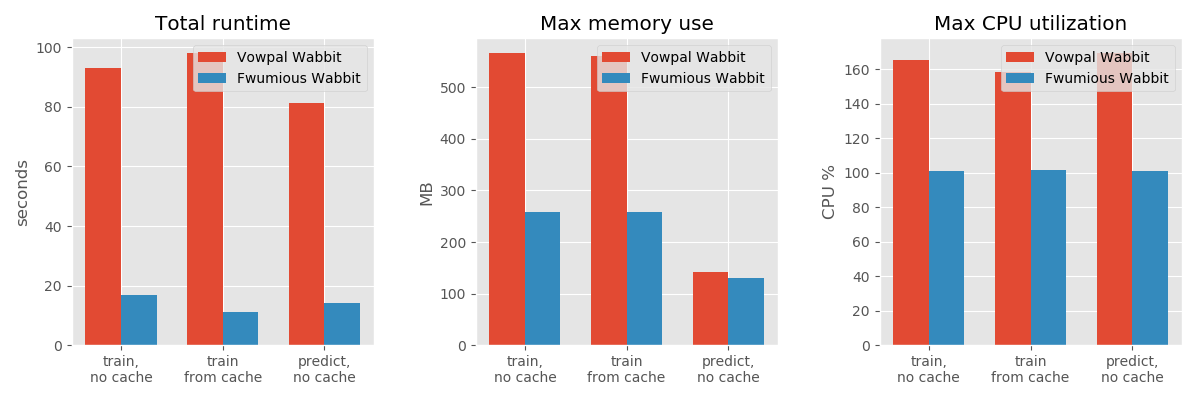
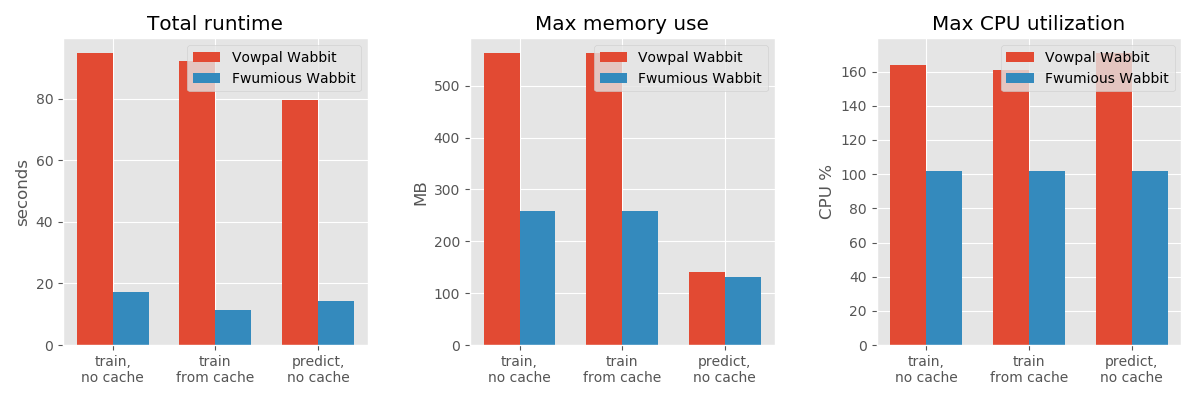
bumping version & benchmark info

diff --git a/src/version.rs b/src/version.rs
@@ -1,1 +1,1 @@
-pub static LATEST: &str = "0.7";
+pub static LATEST: &str = "0.8";

diff --git a/BENCHMARK.md b/BENCHMARK.md
@@ -14,12 +14,12 @@ here are the results for 3 runs for each scenario, taking mean values:
 ![benchmark results](benchmark_results.png)
 Scenario|Runtime (seconds)|Memory (MB)|CPU %
 ----|----:|----:|----:
-vw train, no cache|93.19 | 567 | 165.20
-fw train, no cache|16.90 | 258 | 100.97
-vw train, using cache|98.15 | 562 | 158.57
-fw train, using cache|11.08 | 258 | 101.73
-vw predict, no cache|81.27 | 141 | 169.47
-fw predict, no cache|14.14 | 130 | 100.97
+vw train, no cache|94.80 | 563 | 164.00
+fw train, no cache|17.29 | 258 | 102.07
+vw train, using cache|92.17 | 563 | 161.03
+fw train, using cache|11.50 | 258 | 102.10
+vw predict, no cache|79.50 | 141 | 170.90
+fw predict, no cache|14.17 | 130 | 102.00
 
 ### Model equivalence
 loss values for the test set:
@@ -82,7 +82,7 @@ or, if you just want the numbers with less dependencies run:
 ### versions:
 ```
 vowpal wabbit 8.9.2 (git commit: 884420267)
-fwumious wabbit 0.7 (git commit: 42aa1cd)
+fwumious wabbit 0.8 (git commit: 98ea4f6)
 ```
 
 ### CPU Info
